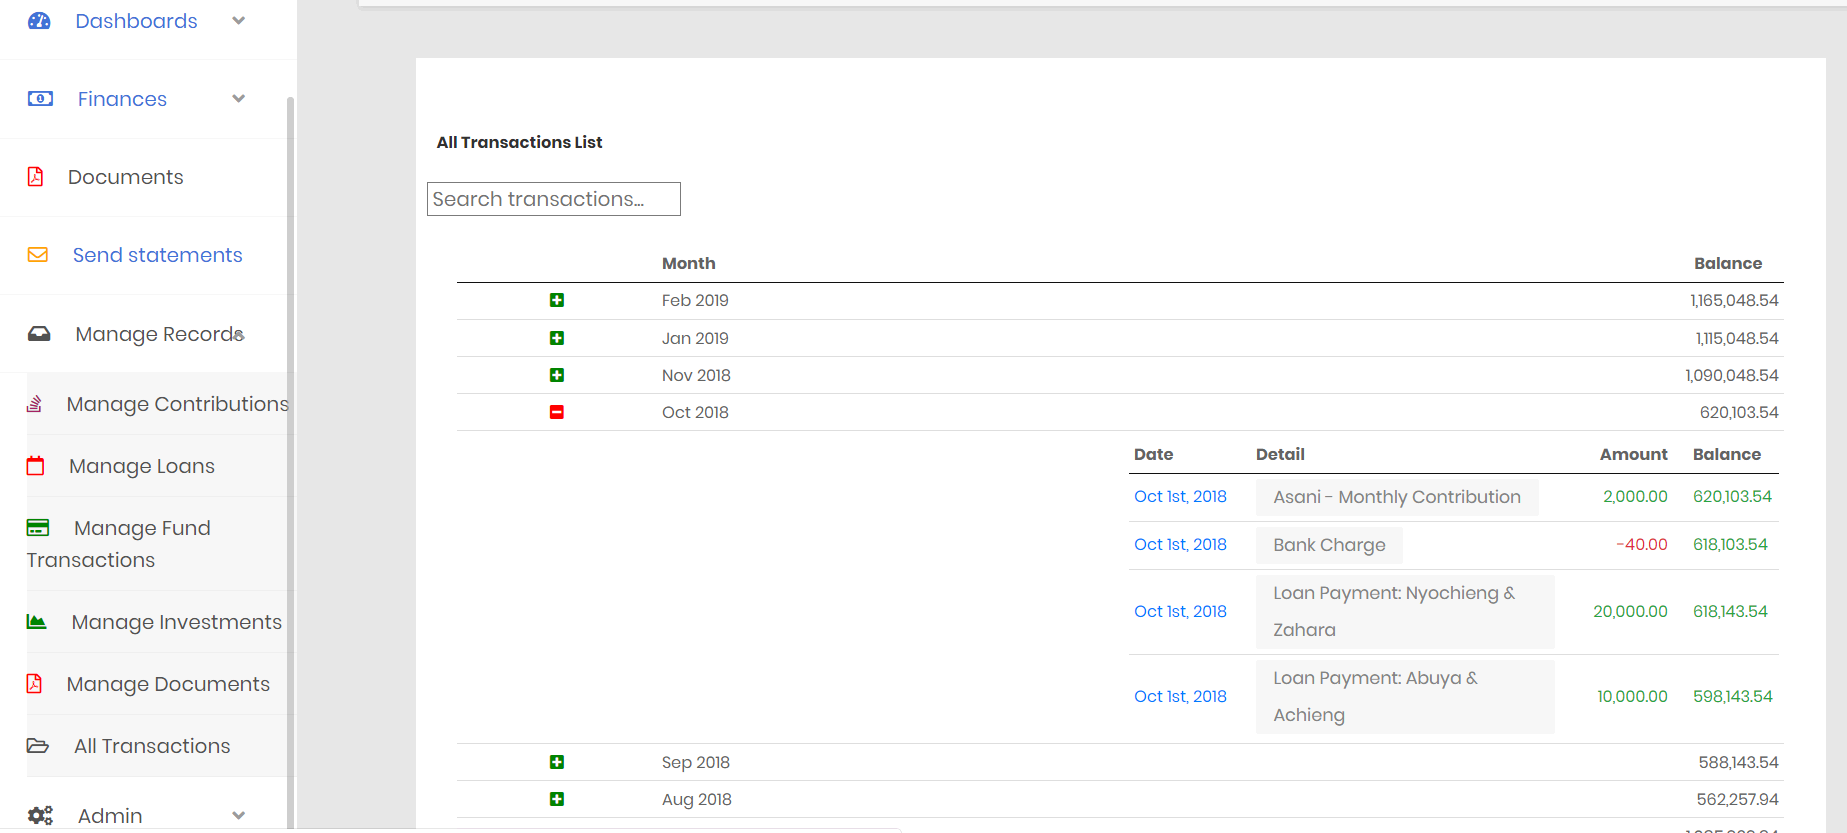
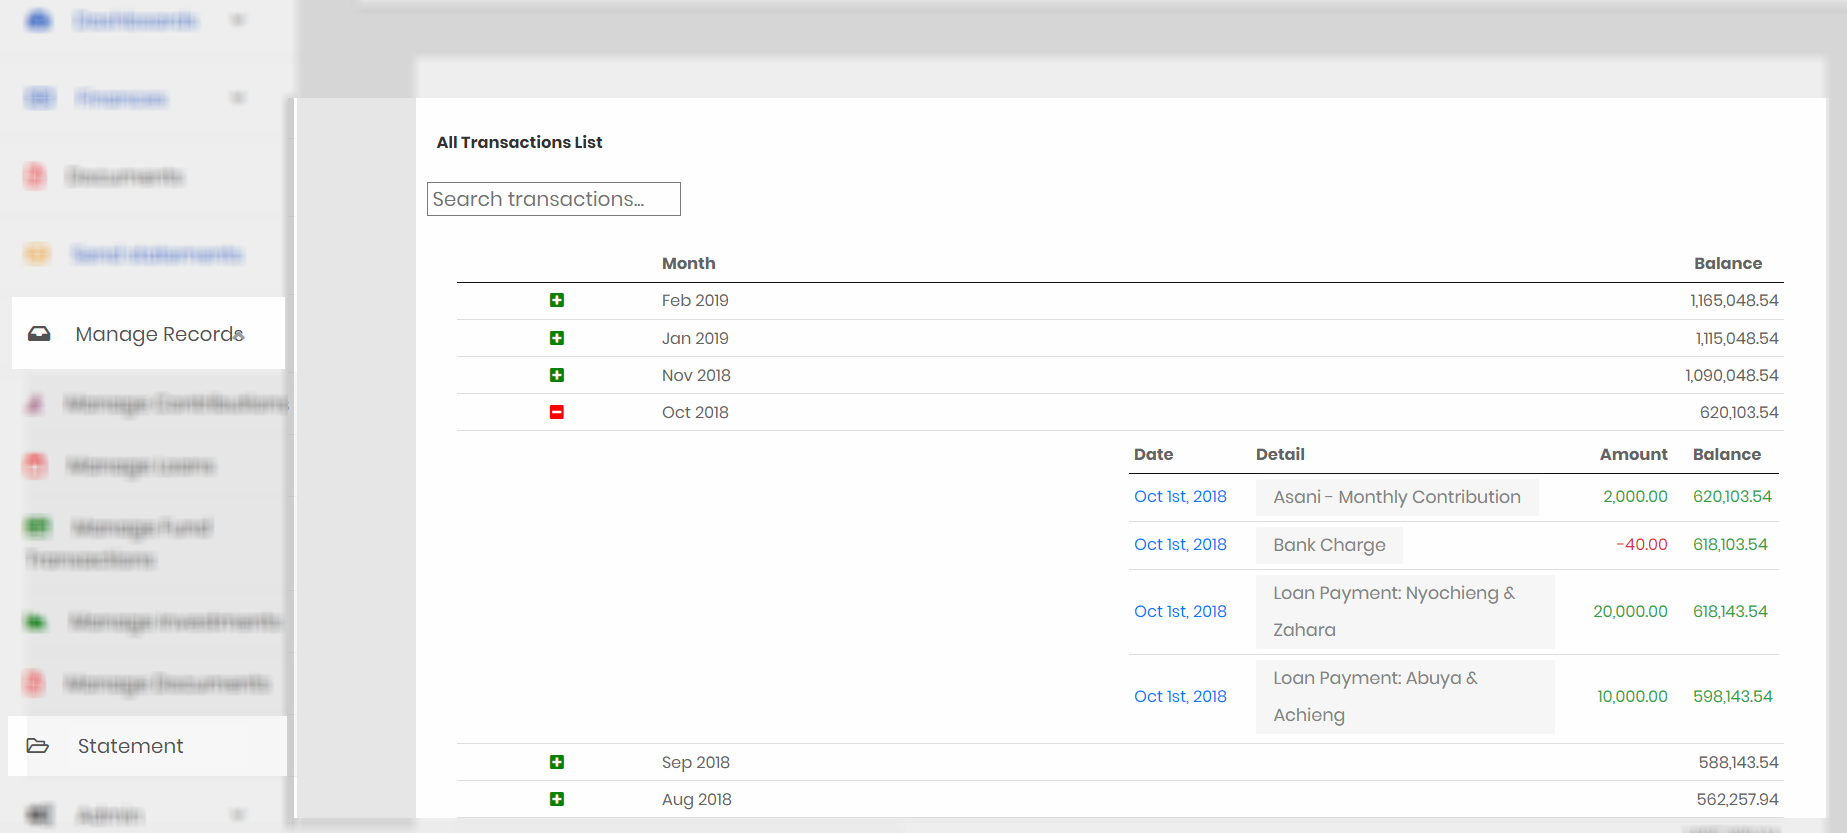
update all transactions text and image

diff --git a/docs/manage-records.md b/docs/manage-records.md
@@ -43,10 +43,10 @@ This page is used to Add, Edit or Delete document records. The page is similar t
 
 ![alt text](images/6.6_Manage_Documents.png "manage documents page")
 
-## List All Transactions
+## Statement
 
 !>This is a read-only page. It can only be viewed by the `Admin`, `Treasurer` or member with the permission `finance_write`.
 
-This page is used for reconciliation. It combines and lists all transactions in chronological order with a running total. It is useful to compare with bank statements for determining cash position.
+This page is used for reconciliation. Practically it should be comparable to the bank statement. It combines and lists all transactions in chronological order with a running total. It is useful to compare with bank statements for determining cash position.
 
-![alt text](images/6.7_All_Transactions.png "all transactions")
+![alt text](images/6.7_All_transactions.png "statement")
